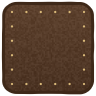
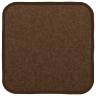
타이틀 프로필 이름 칸의 점 무늬 없애기

diff --git a/Assets/Editor/LastBullet/Phase89UiArtPolish.cs b/Assets/Editor/LastBullet/Phase89UiArtPolish.cs
@@ -423,19 +423,7 @@ namespace LastBullet.EditorTools
                 float n = (Noise(x * 0.7f, y * 0.7f) - 0.5f) * 0.07f;
                 return new Color(c.r + n, c.g + n, c.b + n, 1f);
             });
-            // 바느질 (점선)
-            for (int i = 0; i < 40; i++)
-            {
-                float t = i / 40f * 4f;
-                float px, py;
-                float s = 36f; // 중심에서 36px 안쪽의 네모
-                if (t < 1f) { px = 48 - s + 2 * s * t; py = 48 + s; }
-                else if (t < 2f) { px = 48 + s; py = 48 + s - 2 * s * (t - 1f); }
-                else if (t < 3f) { px = 48 + s - 2 * s * (t - 2f); py = 48 - s; }
-                else { px = 48 - s; py = 48 - s + 2 * s * (t - 3f); }
-                if (i % 2 == 0)
-                    Paint(plate, Circle(px, py, 1.1f), Solid(new Color32(0xD8, 0xB8, 0x78, 0xFF)));
-            }
+            // (2026-11-08 사용자 요청: 가장자리의 작은 점 무늬(바느질)는 없앴다)
             Save(plate, "Profile_NamePlate");
         }
 

diff --git a/docs/claude/SESSION_HANDOFF.md b/docs/claude/SESSION_HANDOFF.md
@@ -708,3 +708,5 @@ Phase 1에서 한 일 (2026-10-29):
 - **전투 맵 3개**: 시작 위치에서 보스가 있는 한가운데까지 **그 맵의 3색 물감 발자국 길**(4~6m마다 한 방울, 좌우로 어긋남)과 **보스 둘레의 크게 번진 얼룩 14개** (`PaintTrail`, 숲 19·성 마을 23·사막 17개). 어디로 가야 하는지 은근히 알려 주고 보스 자리를 눈에 띄게 한다.
 - 물감 자국은 흰색 얼룩 그림 `Assets/UI/PaintBlob.png`에 색을 입힌 투명 쿼드(`Assets/Materials/FloorPaint_색.mat` 9개)라서 그림·색을 바꿔 끼울 수 있다. 가파른 곳(바위·벽)에는 붙이지 않는다.
 - 확인(실제 화면): 이름표 글자가 읽힘, 미술관 바닥에 9색 얼룩, 숲·성 마을 보스 둘레에 큼직한 얼룩, 로그에 예외 없음. 못 본 것: 모든 위치에서 얼룩이 지형에 잘 붙는지, 시작 위치에서 길이 눈에 띄는 정도.
+
+- (사용자 요청 "여긴 저 조그만 무늬 없게") 타이틀 프로필 이름 칸(`Profile_NamePlate`)의 가장자리 점 무늬(바느질)를 없앴다(`Phase89UiArtPolish`에서 점선 그리기 삭제 후 다시 그림). 확인: 타이틀 화면에서 점 없이 매끈한 가죽 칸.
